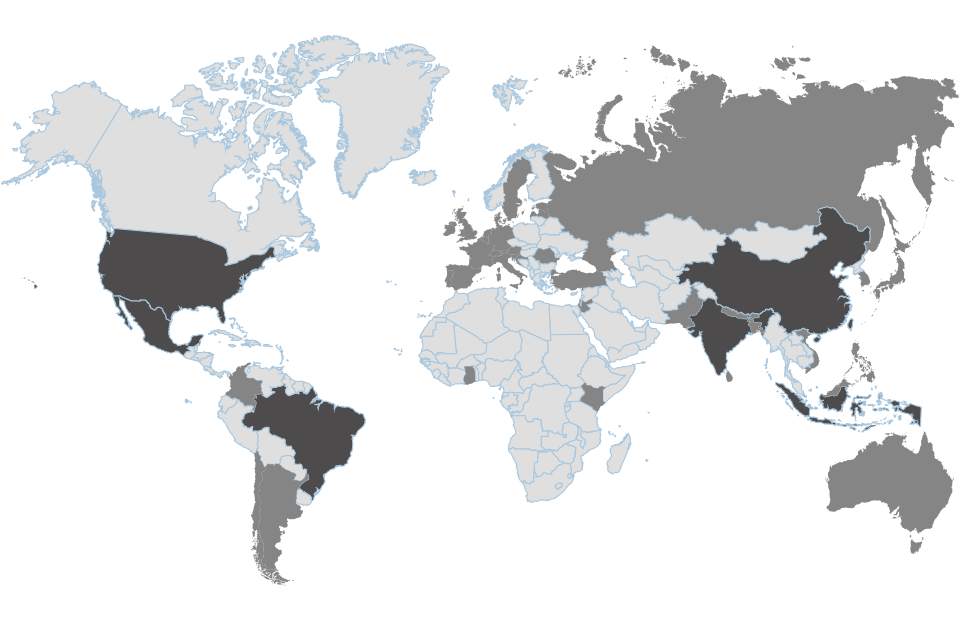
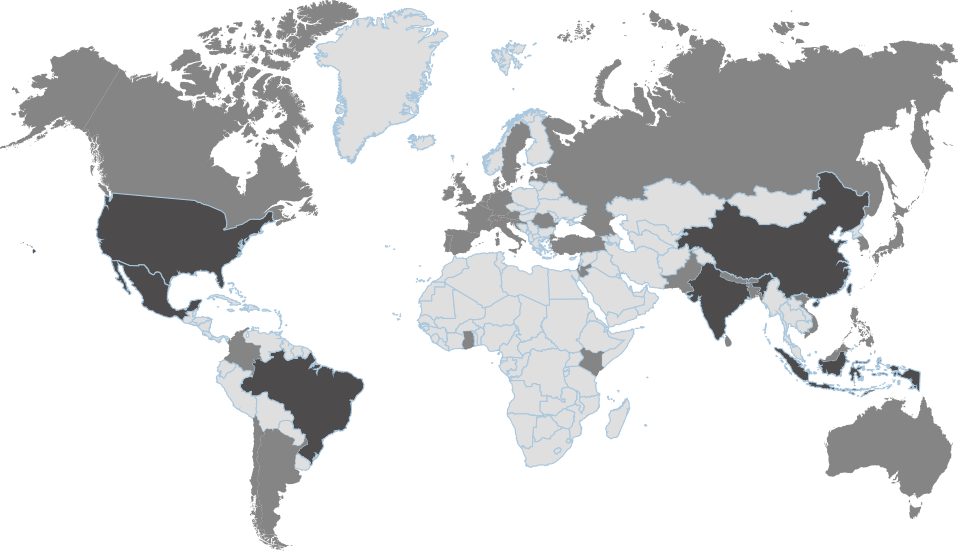
Photos update
New photos for accelerators and added Alaska and Canada to the map in
home.

diff --git a/static/js/bxslider.min.js b/static/js/bxslider.min.js
@@ -7,4 +7,4 @@
  *
  * Released under the MIT license - http://opensource.org/licenses/MIT
  */
-!function(t){var e={},s={mode:"horizontal",slideSelector:"",infiniteLoop:!0,hideControlOnEnd:!1,speed:500,easing:null,slideMargin:0,startSlide:0,randomStart:!1,captions:!1,ticker:!1,tickerHover:!1,adaptiveHeight:!1,adaptiveHeightSpeed:500,video:!1,useCSS:!0,preloadImages:"visible",responsive:!0,touchEnabled:!0,swipeThreshold:50,oneToOneTouch:!0,preventDefaultSwipeX:!0,preventDefaultSwipeY:!1,pager:!0,pagerType:"full",pagerShortSeparator:" / ",pagerSelector:null,buildPager:null,pagerCustom:null,controls:!0,nextText:"Next",prevText:"Prev",nextSelector:null,prevSelector:null,autoControls:!1,startText:"Start",stopText:"Stop",autoControlsCombine:!1,autoControlsSelector:null,auto:!1,pause:4e3,autoStart:!0,autoDirection:"next",autoHover:!1,autoDelay:0,minSlides:1,maxSlides:1,moveSlides:0,slideWidth:0,onSliderLoad:function(){},onSlideBefore:function(){},onSlideAfter:function(){},onSlideNext:function(){},onSlidePrev:function(){}};t.fn.bxSlider=function(n){if(0==this.length)return this;if(this.length>1)return this.each(function(){t(this).bxSlider(n)}),this;var o={},r=this;e.el=this;var a=t(window).width(),l=t(window).height(),d=function(){o.settings=t.extend({},s,n),o.settings.slideWidth=parseInt(o.settings.slideWidth),o.children=r.children(o.settings.slideSelector),o.children.length<o.settings.minSlides&&(o.settings.minSlides=o.children.length),o.children.length<o.settings.maxSlides&&(o.settings.maxSlides=o.children.length),o.settings.randomStart&&(o.settings.startSlide=Math.floor(Math.random()*o.children.length)),o.active={index:o.settings.startSlide},o.carousel=o.settings.minSlides>1||o.settings.maxSlides>1,o.carousel&&(o.settings.preloadImages="all"),o.minThreshold=o.settings.minSlides*o.settings.slideWidth+(o.settings.minSlides-1)*o.settings.slideMargin,o.maxThreshold=o.settings.maxSlides*o.settings.slideWidth+(o.settings.maxSlides-1)*o.settings.slideMargin,o.working=!1,o.controls={},o.interval=null,o.animProp="vertical"==o.settings.mode?"top":"left",o.usingCSS=o.settings.useCSS&&"fade"!=o.settings.mode&&function(){var t=document.createElement("div"),e=["WebkitPerspective","MozPerspective","OPerspective","msPerspective"];for(var i in e)if(void 0!==t.style[e[i]])return o.cssPrefix=e[i].replace("Perspective","").toLowerCase(),o.animProp="-"+o.cssPrefix+"-transform",!0;return!1}(),"vertical"==o.settings.mode&&(o.settings.maxSlides=o.settings.minSlides),r.data("origStyle",r.attr("style")),r.children(o.settings.slideSelector).each(function(){t(this).data("origStyle",t(this).attr("style"))}),c()},c=function(){r.wrap('<div class="bx-wrapper"><div class="bx-viewport"></div></div>'),o.viewport=r.parent(),o.loader=t('<div class="bx-loading" />'),o.viewport.prepend(o.loader),r.css({width:"horizontal"==o.settings.mode?100*o.children.length+215+"%":"auto",position:"relative"}),o.usingCSS&&o.settings.easing?r.css("-"+o.cssPrefix+"-transition-timing-function",o.settings.easing):o.settings.easing||(o.settings.easing="swing"),f(),o.viewport.css({width:"100%",overflow:"hidden",position:"relative"}),o.viewport.parent().css({maxWidth:v()}),o.settings.pager||o.viewport.parent().css({margin:"0 auto 0px"}),o.children.css({"float":"horizontal"==o.settings.mode?"left":"none",listStyle:"none",position:"relative"}),o.children.css("width",u()),"horizontal"==o.settings.mode&&o.settings.slideMargin>0&&o.children.css("marginRight",o.settings.slideMargin),"vertical"==o.settings.mode&&o.settings.slideMargin>0&&o.children.css("marginBottom",o.settings.slideMargin),"fade"==o.settings.mode&&(o.children.css({position:"absolute",zIndex:0,display:"none"}),o.children.eq(o.settings.startSlide).css({zIndex:50,display:"block"})),o.controls.el=t('<div class="bx-controls" />'),o.settings.captions&&P(),o.active.last=o.settings.startSlide==x()-1,o.settings.video&&r.fitVids();var e=o.children.eq(o.settings.startSlide);"all"==o.settings.preloadImages&&(e=o.children),o.settings.ticker?o.settings.pager=!1:(o.settings.pager&&T(),o.settings.controls&&C(),o.settings.auto&&o.settings.autoControls&&E(),(o.settings.controls||o.settings.autoControls||o.settings.pager)&&o.viewport.after(o.controls.el)),g(e,h)},g=function(e,i){var s=e.find("img, iframe").length;if(0==s)return i(),void 0;var n=0;e.find("img, iframe").each(function(){t(this).one("load",function(){++n==s&&i()}).each(function(){this.complete&&t(this).load()})})},h=function(){if(o.settings.infiniteLoop&&"fade"!=o.settings.mode&&!o.settings.ticker){var e="vertical"==o.settings.mode?o.settings.minSlides:o.settings.maxSlides,i=o.children.slice(0,e).clone().addClass("bx-clone"),s=o.children.slice(-e).clone().addClass("bx-clone");r.append(i).prepend(s)}o.loader.remove(),S(),"vertical"==o.settings.mode&&(o.settings.adaptiveHeight=!0),o.viewport.height(p()),r.redrawSlider(),o.settings.onSliderLoad(o.active.index),o.initialized=!0,o.settings.responsive&&t(window).bind("resize",B),o.settings.auto&&o.settings.autoStart&&H(),o.settings.ticker&&L(),o.settings.pager&&I(o.settings.startSlide),o.settings.controls&&W(),o.settings.touchEnabled&&!o.settings.ticker&&O()},p=function(){var e=0,s=t();if("vertical"==o.settings.mode||o.settings.adaptiveHeight)if(o.carousel){var n=1==o.settings.moveSlides?o.active.index:o.active.index*m();for(s=o.children.eq(n),i=1;i<=o.settings.maxSlides-1;i++)s=n+i>=o.children.length?s.add(o.children.eq(i-1)):s.add(o.children.eq(n+i))}else s=o.children.eq(o.active.index);else s=o.children;return"vertical"==o.settings.mode?(s.each(function(){e+=t(this).outerHeight()}),o.settings.slideMargin>0&&(e+=o.settings.slideMargin*(o.settings.minSlides-1))):e=Math.max.apply(Math,s.map(function(){return t(this).outerHeight(!1)}).get()),e},v=function(){var t="100%";return o.settings.slideWidth>0&&(t="horizontal"==o.settings.mode?o.settings.maxSlides*o.settings.slideWidth+(o.settings.maxSlides-1)*o.settings.slideMargin:o.settings.slideWidth),t},u=function(){var t=o.settings.slideWidth,e=o.viewport.width();return 0==o.settings.slideWidth||o.settings.slideWidth>e&&!o.carousel||"vertical"==o.settings.mode?t=e:o.settings.maxSlides>1&&"horizontal"==o.settings.mode&&(e>o.maxThreshold||e<o.minThreshold&&(t=(e-o.settings.slideMargin*(o.settings.minSlides-1))/o.settings.minSlides)),t},f=function(){var t=1;if("horizontal"==o.settings.mode&&o.settings.slideWidth>0)if(o.viewport.width()<o.minThreshold)t=o.settings.minSlides;else if(o.viewport.width()>o.maxThreshold)t=o.settings.maxSlides;else{var e=o.children.first().width();t=Math.floor(o.viewport.width()/e)}else"vertical"==o.settings.mode&&(t=o.settings.minSlides);return t},x=function(){var t=0;if(o.settings.moveSlides>0)if(o.settings.infiniteLoop)t=o.children.length/m();else for(var e=0,i=0;e<o.children.length;)++t,e=i+f(),i+=o.settings.moveSlides<=f()?o.settings.moveSlides:f();else t=Math.ceil(o.children.length/f());return t},m=function(){return o.settings.moveSlides>0&&o.settings.moveSlides<=f()?o.settings.moveSlides:f()},S=function(){if(o.children.length>o.settings.maxSlides&&o.active.last&&!o.settings.infiniteLoop){if("horizontal"==o.settings.mode){var t=o.children.last(),e=t.position();b(-(e.left-(o.viewport.width()-t.width())),"reset",0)}else if("vertical"==o.settings.mode){var i=o.children.length-o.settings.minSlides,e=o.children.eq(i).position();b(-e.top,"reset",0)}}else{var e=o.children.eq(o.active.index*m()).position();o.active.index==x()-1&&(o.active.last=!0),void 0!=e&&("horizontal"==o.settings.mode?b(-e.left,"reset",0):"vertical"==o.settings.mode&&b(-e.top,"reset",0))}},b=function(t,e,i,s){if(o.usingCSS){var n="vertical"==o.settings.mode?"translate3d(0, "+t+"px, 0)":"translate3d("+t+"px, 0, 0)";r.css("-"+o.cssPrefix+"-transition-duration",i/1e3+"s"),"slide"==e?(r.css(o.animProp,n),r.bind("transitionend webkitTransitionEnd oTransitionEnd MSTransitionEnd",function(){r.unbind("transitionend webkitTransitionEnd oTransitionEnd MSTransitionEnd"),D()})):"reset"==e?r.css(o.animProp,n):"ticker"==e&&(r.css("-"+o.cssPrefix+"-transition-timing-function","linear"),r.css(o.animProp,n),r.bind("transitionend webkitTransitionEnd oTransitionEnd MSTransitionEnd",function(){r.unbind("transitionend webkitTransitionEnd oTransitionEnd MSTransitionEnd"),b(s.resetValue,"reset",0),N()}))}else{var a={};a[o.animProp]=t,"slide"==e?r.animate(a,i,o.settings.easing,function(){D()}):"reset"==e?r.css(o.animProp,t):"ticker"==e&&r.animate(a,speed,"linear",function(){b(s.resetValue,"reset",0),N()})}},w=function(){for(var e="",i=x(),s=0;i>s;s++){var n="";o.settings.buildPager&&t.isFunction(o.settings.buildPager)?(n=o.settings.buildPager(s),o.pagerEl.addClass("bx-custom-pager")):(n=s+1,o.pagerEl.addClass("bx-default-pager")),e+='<div class="bx-pager-item"><a href="" data-slide-index="'+s+'" class="bx-pager-link">'+n+"</a></div>"}o.pagerEl.html(e)},T=function(){o.settings.pagerCustom?o.pagerEl=t(o.settings.pagerCustom):(o.pagerEl=t('<div class="bx-pager" />'),o.settings.pagerSelector?t(o.settings.pagerSelector).html(o.pagerEl):o.controls.el.addClass("bx-has-pager").append(o.pagerEl),w()),o.pagerEl.delegate("a","click",q)},C=function(){o.controls.next=t('<a class="bx-next" href="">'+o.settings.nextText+"</a>"),o.controls.prev=t('<a class="bx-prev" href="">'+o.settings.prevText+"</a>"),o.controls.next.bind("click",y),o.controls.prev.bind("click",z),o.settings.nextSelector&&t(o.settings.nextSelector).append(o.controls.next),o.settings.prevSelector&&t(o.settings.prevSelector).append(o.controls.prev),o.settings.nextSelector||o.settings.prevSelector||(o.controls.directionEl=t('<div class="bx-controls-direction" />'),o.controls.directionEl.append(o.controls.prev).append(o.controls.next),o.controls.el.addClass("bx-has-controls-direction").append(o.controls.directionEl))},E=function(){o.controls.start=t('<div class="bx-controls-auto-item"><a class="bx-start" href="">'+o.settings.startText+"</a></div>"),o.controls.stop=t('<div class="bx-controls-auto-item"><a class="bx-stop" href="">'+o.settings.stopText+"</a></div>"),o.controls.autoEl=t('<div class="bx-controls-auto" />'),o.controls.autoEl.delegate(".bx-start","click",k),o.controls.autoEl.delegate(".bx-stop","click",M),o.settings.autoControlsCombine?o.controls.autoEl.append(o.controls.start):o.controls.autoEl.append(o.controls.start).append(o.controls.stop),o.settings.autoControlsSelector?t(o.settings.autoControlsSelector).html(o.controls.autoEl):o.controls.el.addClass("bx-has-controls-auto").append(o.controls.autoEl),A(o.settings.autoStart?"stop":"start")},P=function(){o.children.each(function(){var e=t(this).find("img:first").attr("title");void 0!=e&&(""+e).length&&t(this).append('<div class="bx-caption"><span>'+e+"</span></div>")})},y=function(t){o.settings.auto&&r.stopAuto(),r.goToNextSlide(),t.preventDefault()},z=function(t){o.settings.auto&&r.stopAuto(),r.goToPrevSlide(),t.preventDefault()},k=function(t){r.startAuto(),t.preventDefault()},M=function(t){r.stopAuto(),t.preventDefault()},q=function(e){o.settings.auto&&r.stopAuto();var i=t(e.currentTarget),s=parseInt(i.attr("data-slide-index"));s!=o.active.index&&r.goToSlide(s),e.preventDefault()},I=function(e){var i=o.children.length;return"short"==o.settings.pagerType?(o.settings.maxSlides>1&&(i=Math.ceil(o.children.length/o.settings.maxSlides)),o.pagerEl.html(e+1+o.settings.pagerShortSeparator+i),void 0):(o.pagerEl.find("a").removeClass("active"),o.pagerEl.each(function(i,s){t(s).find("a").eq(e).addClass("active")}),void 0)},D=function(){if(o.settings.infiniteLoop){var t="";0==o.active.index?t=o.children.eq(0).position():o.active.index==x()-1&&o.carousel?t=o.children.eq((x()-1)*m()).position():o.active.index==o.children.length-1&&(t=o.children.eq(o.children.length-1).position()),"horizontal"==o.settings.mode?b(-t.left,"reset",0):"vertical"==o.settings.mode&&b(-t.top,"reset",0)}o.working=!1,o.settings.onSlideAfter(o.children.eq(o.active.index),o.oldIndex,o.active.index)},A=function(t){o.settings.autoControlsCombine?o.controls.autoEl.html(o.controls[t]):(o.controls.autoEl.find("a").removeClass("active"),o.controls.autoEl.find("a:not(.bx-"+t+")").addClass("active"))},W=function(){1==x()?(o.controls.prev.addClass("disabled"),o.controls.next.addClass("disabled")):!o.settings.infiniteLoop&&o.settings.hideControlOnEnd&&(0==o.active.index?(o.controls.prev.addClass("disabled"),o.controls.next.removeClass("disabled")):o.active.index==x()-1?(o.controls.next.addClass("disabled"),o.controls.prev.removeClass("disabled")):(o.controls.prev.removeClass("disabled"),o.controls.next.removeClass("disabled")))},H=function(){o.settings.autoDelay>0?setTimeout(r.startAuto,o.settings.autoDelay):r.startAuto(),o.settings.autoHover&&r.hover(function(){o.interval&&(r.stopAuto(!0),o.autoPaused=!0)},function(){o.autoPaused&&(r.startAuto(!0),o.autoPaused=null)})},L=function(){var e=0;if("next"==o.settings.autoDirection)r.append(o.children.clone().addClass("bx-clone"));else{r.prepend(o.children.clone().addClass("bx-clone"));var i=o.children.first().position();e="horizontal"==o.settings.mode?-i.left:-i.top}b(e,"reset",0),o.settings.pager=!1,o.settings.controls=!1,o.settings.autoControls=!1,o.settings.tickerHover&&!o.usingCSS&&o.viewport.hover(function(){r.stop()},function(){var e=0;o.children.each(function(){e+="horizontal"==o.settings.mode?t(this).outerWidth(!0):t(this).outerHeight(!0)});var i=o.settings.speed/e,s="horizontal"==o.settings.mode?"left":"top",n=i*(e-Math.abs(parseInt(r.css(s))));N(n)}),N()},N=function(t){speed=t?t:o.settings.speed;var e={left:0,top:0},i={left:0,top:0};"next"==o.settings.autoDirection?e=r.find(".bx-clone").first().position():i=o.children.first().position();var s="horizontal"==o.settings.mode?-e.left:-e.top,n="horizontal"==o.settings.mode?-i.left:-i.top,a={resetValue:n};b(s,"ticker",speed,a)},O=function(){o.touch={start:{x:0,y:0},end:{x:0,y:0}},o.viewport.bind("touchstart",X)},X=function(t){if(o.working)t.preventDefault();else{o.touch.originalPos=r.position();var e=t.originalEvent;o.touch.start.x=e.changedTouches[0].pageX,o.touch.start.y=e.changedTouches[0].pageY,o.viewport.bind("touchmove",Y),o.viewport.bind("touchend",V)}},Y=function(t){var e=t.originalEvent,i=Math.abs(e.changedTouches[0].pageX-o.touch.start.x),s=Math.abs(e.changedTouches[0].pageY-o.touch.start.y);if(3*i>s&&o.settings.preventDefaultSwipeX?t.preventDefault():3*s>i&&o.settings.preventDefaultSwipeY&&t.preventDefault(),"fade"!=o.settings.mode&&o.settings.oneToOneTouch){var n=0;if("horizontal"==o.settings.mode){var r=e.changedTouches[0].pageX-o.touch.start.x;n=o.touch.originalPos.left+r}else{var r=e.changedTouches[0].pageY-o.touch.start.y;n=o.touch.originalPos.top+r}b(n,"reset",0)}},V=function(t){o.viewport.unbind("touchmove",Y);var e=t.originalEvent,i=0;if(o.touch.end.x=e.changedTouches[0].pageX,o.touch.end.y=e.changedTouches[0].pageY,"fade"==o.settings.mode){var s=Math.abs(o.touch.start.x-o.touch.end.x);s>=o.settings.swipeThreshold&&(o.touch.start.x>o.touch.end.x?r.goToNextSlide():r.goToPrevSlide(),r.stopAuto())}else{var s=0;"horizontal"==o.settings.mode?(s=o.touch.end.x-o.touch.start.x,i=o.touch.originalPos.left):(s=o.touch.end.y-o.touch.start.y,i=o.touch.originalPos.top),!o.settings.infiniteLoop&&(0==o.active.index&&s>0||o.active.last&&0>s)?b(i,"reset",200):Math.abs(s)>=o.settings.swipeThreshold?(0>s?r.goToNextSlide():r.goToPrevSlide(),r.stopAuto()):b(i,"reset",200)}o.viewport.unbind("touchend",V)},B=function(){var e=t(window).width(),i=t(window).height();(a!=e||l!=i)&&(a=e,l=i,r.redrawSlider())};return r.goToSlide=function(e,i){if(!o.working&&o.active.index!=e)if(o.working=!0,o.oldIndex=o.active.index,o.active.index=0>e?x()-1:e>=x()?0:e,o.settings.onSlideBefore(o.children.eq(o.active.index),o.oldIndex,o.active.index),"next"==i?o.settings.onSlideNext(o.children.eq(o.active.index),o.oldIndex,o.active.index):"prev"==i&&o.settings.onSlidePrev(o.children.eq(o.active.index),o.oldIndex,o.active.index),o.active.last=o.active.index>=x()-1,o.settings.pager&&I(o.active.index),o.settings.controls&&W(),"fade"==o.settings.mode)o.settings.adaptiveHeight&&o.viewport.height()!=p()&&o.viewport.animate({height:p()},o.settings.adaptiveHeightSpeed),o.children.filter(":visible").fadeOut(o.settings.speed).css({zIndex:0}),o.children.eq(o.active.index).css("zIndex",51).fadeIn(o.settings.speed,function(){t(this).css("zIndex",50),D()});else{o.settings.adaptiveHeight&&o.viewport.height()!=p()&&o.viewport.animate({height:p()},o.settings.adaptiveHeightSpeed);var s=0,n={left:0,top:0};if(!o.settings.infiniteLoop&&o.carousel&&o.active.last)if("horizontal"==o.settings.mode){var a=o.children.eq(o.children.length-1);n=a.position(),s=o.viewport.width()-a.outerWidth()}else{var l=o.children.length-o.settings.minSlides;n=o.children.eq(l).position()}else if(o.carousel&&o.active.last&&"prev"==i){var d=1==o.settings.moveSlides?o.settings.maxSlides-m():(x()-1)*m()-(o.children.length-o.settings.maxSlides),a=r.children(".bx-clone").eq(d);n=a.position()}else if("next"==i&&0==o.active.index)n=r.find("> .bx-clone").eq(o.settings.maxSlides).position(),o.active.last=!1;else if(e>=0){var c=e*m();n=o.children.eq(c).position()}if("undefined"!=typeof n){var g="horizontal"==o.settings.mode?-(n.left-s):-n.top;b(g,"slide",o.settings.speed)}}},r.goToNextSlide=function(){if(o.settings.infiniteLoop||!o.active.last){var t=parseInt(o.active.index)+1;r.goToSlide(t,"next")}},r.goToPrevSlide=function(){if(o.settings.infiniteLoop||0!=o.active.index){var t=parseInt(o.active.index)-1;r.goToSlide(t,"prev")}},r.startAuto=function(t){o.interval||(o.interval=setInterval(function(){"next"==o.settings.autoDirection?r.goToNextSlide():r.goToPrevSlide()},o.settings.pause),o.settings.autoControls&&1!=t&&A("stop"))},r.stopAuto=function(t){o.interval&&(clearInterval(o.interval),o.interval=null,o.settings.autoControls&&1!=t&&A("start"))},r.getCurrentSlide=function(){return o.active.index},r.getSlideCount=function(){return o.children.length},r.redrawSlider=function(){o.children.add(r.find(".bx-clone")).outerWidth(u()),o.viewport.css("height",p()),o.settings.ticker||S(),o.active.last&&(o.active.index=x()-1),o.active.index>=x()&&(o.active.last=!0),o.settings.pager&&!o.settings.pagerCustom&&(w(),I(o.active.index))},r.destroySlider=function(){o.initialized&&(o.initialized=!1,t(".bx-clone",this).remove(),o.children.each(function(){void 0!=t(this).data("origStyle")?t(this).attr("style",t(this).data("origStyle")):t(this).removeAttr("style")}),void 0!=t(this).data("origStyle")?this.attr("style",t(this).data("origStyle")):t(this).removeAttr("style"),t(this).unwrap().unwrap(),o.controls.el&&o.controls.el.remove(),o.controls.next&&o.controls.next.remove(),o.controls.prev&&o.controls.prev.remove(),o.pagerEl&&o.pagerEl.remove(),t(".bx-caption",this).remove(),o.controls.autoEl&&o.controls.autoEl.remove(),clearInterval(o.interval),o.settings.responsive&&t(window).unbind("resize",B))},r.reloadSlider=function(t){void 0!=t&&(n=t),r.destroySlider(),d()},d(),this}}(jQuery);
+!function(t){var e={},s={mode:"horizontal",slideSelector:"",infiniteLoop:!0,hideControlOnEnd:!1,speed:200,easing:null,slideMargin:0,startSlide:0,randomStart:!1,captions:!1,ticker:!1,tickerHover:!1,adaptiveHeight:!1,adaptiveHeightSpeed:500,video:!1,useCSS:!0,preloadImages:"visible",responsive:!0,touchEnabled:!0,swipeThreshold:50,oneToOneTouch:!0,preventDefaultSwipeX:!0,preventDefaultSwipeY:!1,pager:!0,pagerType:"full",pagerShortSeparator:" / ",pagerSelector:null,buildPager:null,pagerCustom:null,controls:!0,nextText:"Next",prevText:"Prev",nextSelector:null,prevSelector:null,autoControls:!1,startText:"Start",stopText:"Stop",autoControlsCombine:!1,autoControlsSelector:null,auto:!1,pause:4e3,autoStart:!0,autoDirection:"next",autoHover:!1,autoDelay:0,minSlides:1,maxSlides:1,moveSlides:0,slideWidth:0,onSliderLoad:function(){},onSlideBefore:function(){},onSlideAfter:function(){},onSlideNext:function(){},onSlidePrev:function(){}};t.fn.bxSlider=function(n){if(0==this.length)return this;if(this.length>1)return this.each(function(){t(this).bxSlider(n)}),this;var o={},r=this;e.el=this;var a=t(window).width(),l=t(window).height(),d=function(){o.settings=t.extend({},s,n),o.settings.slideWidth=parseInt(o.settings.slideWidth),o.children=r.children(o.settings.slideSelector),o.children.length<o.settings.minSlides&&(o.settings.minSlides=o.children.length),o.children.length<o.settings.maxSlides&&(o.settings.maxSlides=o.children.length),o.settings.randomStart&&(o.settings.startSlide=Math.floor(Math.random()*o.children.length)),o.active={index:o.settings.startSlide},o.carousel=o.settings.minSlides>1||o.settings.maxSlides>1,o.carousel&&(o.settings.preloadImages="all"),o.minThreshold=o.settings.minSlides*o.settings.slideWidth+(o.settings.minSlides-1)*o.settings.slideMargin,o.maxThreshold=o.settings.maxSlides*o.settings.slideWidth+(o.settings.maxSlides-1)*o.settings.slideMargin,o.working=!1,o.controls={},o.interval=null,o.animProp="vertical"==o.settings.mode?"top":"left",o.usingCSS=o.settings.useCSS&&"fade"!=o.settings.mode&&function(){var t=document.createElement("div"),e=["WebkitPerspective","MozPerspective","OPerspective","msPerspective"];for(var i in e)if(void 0!==t.style[e[i]])return o.cssPrefix=e[i].replace("Perspective","").toLowerCase(),o.animProp="-"+o.cssPrefix+"-transform",!0;return!1}(),"vertical"==o.settings.mode&&(o.settings.maxSlides=o.settings.minSlides),r.data("origStyle",r.attr("style")),r.children(o.settings.slideSelector).each(function(){t(this).data("origStyle",t(this).attr("style"))}),c()},c=function(){r.wrap('<div class="bx-wrapper"><div class="bx-viewport"></div></div>'),o.viewport=r.parent(),o.loader=t('<div class="bx-loading" />'),o.viewport.prepend(o.loader),r.css({width:"horizontal"==o.settings.mode?100*o.children.length+215+"%":"auto",position:"relative"}),o.usingCSS&&o.settings.easing?r.css("-"+o.cssPrefix+"-transition-timing-function",o.settings.easing):o.settings.easing||(o.settings.easing="swing"),f(),o.viewport.css({width:"100%",overflow:"hidden",position:"relative"}),o.viewport.parent().css({maxWidth:v()}),o.settings.pager||o.viewport.parent().css({margin:"0 auto 0px"}),o.children.css({"float":"horizontal"==o.settings.mode?"left":"none",listStyle:"none",position:"relative"}),o.children.css("width",u()),"horizontal"==o.settings.mode&&o.settings.slideMargin>0&&o.children.css("marginRight",o.settings.slideMargin),"vertical"==o.settings.mode&&o.settings.slideMargin>0&&o.children.css("marginBottom",o.settings.slideMargin),"fade"==o.settings.mode&&(o.children.css({position:"absolute",zIndex:0,display:"none"}),o.children.eq(o.settings.startSlide).css({zIndex:50,display:"block"})),o.controls.el=t('<div class="bx-controls" />'),o.settings.captions&&P(),o.active.last=o.settings.startSlide==x()-1,o.settings.video&&r.fitVids();var e=o.children.eq(o.settings.startSlide);"all"==o.settings.preloadImages&&(e=o.children),o.settings.ticker?o.settings.pager=!1:(o.settings.pager&&T(),o.settings.controls&&C(),o.settings.auto&&o.settings.autoControls&&E(),(o.settings.controls||o.settings.autoControls||o.settings.pager)&&o.viewport.after(o.controls.el)),g(e,h)},g=function(e,i){var s=e.find("img, iframe").length;if(0==s)return i(),void 0;var n=0;e.find("img, iframe").each(function(){t(this).one("load",function(){++n==s&&i()}).each(function(){this.complete&&t(this).load()})})},h=function(){if(o.settings.infiniteLoop&&"fade"!=o.settings.mode&&!o.settings.ticker){var e="vertical"==o.settings.mode?o.settings.minSlides:o.settings.maxSlides,i=o.children.slice(0,e).clone().addClass("bx-clone"),s=o.children.slice(-e).clone().addClass("bx-clone");r.append(i).prepend(s)}o.loader.remove(),S(),"vertical"==o.settings.mode&&(o.settings.adaptiveHeight=!0),o.viewport.height(p()),r.redrawSlider(),o.settings.onSliderLoad(o.active.index),o.initialized=!0,o.settings.responsive&&t(window).bind("resize",B),o.settings.auto&&o.settings.autoStart&&H(),o.settings.ticker&&L(),o.settings.pager&&I(o.settings.startSlide),o.settings.controls&&W(),o.settings.touchEnabled&&!o.settings.ticker&&O()},p=function(){var e=0,s=t();if("vertical"==o.settings.mode||o.settings.adaptiveHeight)if(o.carousel){var n=1==o.settings.moveSlides?o.active.index:o.active.index*m();for(s=o.children.eq(n),i=1;i<=o.settings.maxSlides-1;i++)s=n+i>=o.children.length?s.add(o.children.eq(i-1)):s.add(o.children.eq(n+i))}else s=o.children.eq(o.active.index);else s=o.children;return"vertical"==o.settings.mode?(s.each(function(){e+=t(this).outerHeight()}),o.settings.slideMargin>0&&(e+=o.settings.slideMargin*(o.settings.minSlides-1))):e=Math.max.apply(Math,s.map(function(){return t(this).outerHeight(!1)}).get()),e},v=function(){var t="100%";return o.settings.slideWidth>0&&(t="horizontal"==o.settings.mode?o.settings.maxSlides*o.settings.slideWidth+(o.settings.maxSlides-1)*o.settings.slideMargin:o.settings.slideWidth),t},u=function(){var t=o.settings.slideWidth,e=o.viewport.width();return 0==o.settings.slideWidth||o.settings.slideWidth>e&&!o.carousel||"vertical"==o.settings.mode?t=e:o.settings.maxSlides>1&&"horizontal"==o.settings.mode&&(e>o.maxThreshold||e<o.minThreshold&&(t=(e-o.settings.slideMargin*(o.settings.minSlides-1))/o.settings.minSlides)),t},f=function(){var t=1;if("horizontal"==o.settings.mode&&o.settings.slideWidth>0)if(o.viewport.width()<o.minThreshold)t=o.settings.minSlides;else if(o.viewport.width()>o.maxThreshold)t=o.settings.maxSlides;else{var e=o.children.first().width();t=Math.floor(o.viewport.width()/e)}else"vertical"==o.settings.mode&&(t=o.settings.minSlides);return t},x=function(){var t=0;if(o.settings.moveSlides>0)if(o.settings.infiniteLoop)t=o.children.length/m();else for(var e=0,i=0;e<o.children.length;)++t,e=i+f(),i+=o.settings.moveSlides<=f()?o.settings.moveSlides:f();else t=Math.ceil(o.children.length/f());return t},m=function(){return o.settings.moveSlides>0&&o.settings.moveSlides<=f()?o.settings.moveSlides:f()},S=function(){if(o.children.length>o.settings.maxSlides&&o.active.last&&!o.settings.infiniteLoop){if("horizontal"==o.settings.mode){var t=o.children.last(),e=t.position();b(-(e.left-(o.viewport.width()-t.width())),"reset",0)}else if("vertical"==o.settings.mode){var i=o.children.length-o.settings.minSlides,e=o.children.eq(i).position();b(-e.top,"reset",0)}}else{var e=o.children.eq(o.active.index*m()).position();o.active.index==x()-1&&(o.active.last=!0),void 0!=e&&("horizontal"==o.settings.mode?b(-e.left,"reset",0):"vertical"==o.settings.mode&&b(-e.top,"reset",0))}},b=function(t,e,i,s){if(o.usingCSS){var n="vertical"==o.settings.mode?"translate3d(0, "+t+"px, 0)":"translate3d("+t+"px, 0, 0)";r.css("-"+o.cssPrefix+"-transition-duration",i/1e3+"s"),"slide"==e?(r.css(o.animProp,n),r.bind("transitionend webkitTransitionEnd oTransitionEnd MSTransitionEnd",function(){r.unbind("transitionend webkitTransitionEnd oTransitionEnd MSTransitionEnd"),D()})):"reset"==e?r.css(o.animProp,n):"ticker"==e&&(r.css("-"+o.cssPrefix+"-transition-timing-function","linear"),r.css(o.animProp,n),r.bind("transitionend webkitTransitionEnd oTransitionEnd MSTransitionEnd",function(){r.unbind("transitionend webkitTransitionEnd oTransitionEnd MSTransitionEnd"),b(s.resetValue,"reset",0),N()}))}else{var a={};a[o.animProp]=t,"slide"==e?r.animate(a,i,o.settings.easing,function(){D()}):"reset"==e?r.css(o.animProp,t):"ticker"==e&&r.animate(a,speed,"linear",function(){b(s.resetValue,"reset",0),N()})}},w=function(){for(var e="",i=x(),s=0;i>s;s++){var n="";o.settings.buildPager&&t.isFunction(o.settings.buildPager)?(n=o.settings.buildPager(s),o.pagerEl.addClass("bx-custom-pager")):(n=s+1,o.pagerEl.addClass("bx-default-pager")),e+='<div class="bx-pager-item"><a href="" data-slide-index="'+s+'" class="bx-pager-link">'+n+"</a></div>"}o.pagerEl.html(e)},T=function(){o.settings.pagerCustom?o.pagerEl=t(o.settings.pagerCustom):(o.pagerEl=t('<div class="bx-pager" />'),o.settings.pagerSelector?t(o.settings.pagerSelector).html(o.pagerEl):o.controls.el.addClass("bx-has-pager").append(o.pagerEl),w()),o.pagerEl.delegate("a","click",q)},C=function(){o.controls.next=t('<a class="bx-next" href="">'+o.settings.nextText+"</a>"),o.controls.prev=t('<a class="bx-prev" href="">'+o.settings.prevText+"</a>"),o.controls.next.bind("click",y),o.controls.prev.bind("click",z),o.settings.nextSelector&&t(o.settings.nextSelector).append(o.controls.next),o.settings.prevSelector&&t(o.settings.prevSelector).append(o.controls.prev),o.settings.nextSelector||o.settings.prevSelector||(o.controls.directionEl=t('<div class="bx-controls-direction" />'),o.controls.directionEl.append(o.controls.prev).append(o.controls.next),o.controls.el.addClass("bx-has-controls-direction").append(o.controls.directionEl))},E=function(){o.controls.start=t('<div class="bx-controls-auto-item"><a class="bx-start" href="">'+o.settings.startText+"</a></div>"),o.controls.stop=t('<div class="bx-controls-auto-item"><a class="bx-stop" href="">'+o.settings.stopText+"</a></div>"),o.controls.autoEl=t('<div class="bx-controls-auto" />'),o.controls.autoEl.delegate(".bx-start","click",k),o.controls.autoEl.delegate(".bx-stop","click",M),o.settings.autoControlsCombine?o.controls.autoEl.append(o.controls.start):o.controls.autoEl.append(o.controls.start).append(o.controls.stop),o.settings.autoControlsSelector?t(o.settings.autoControlsSelector).html(o.controls.autoEl):o.controls.el.addClass("bx-has-controls-auto").append(o.controls.autoEl),A(o.settings.autoStart?"stop":"start")},P=function(){o.children.each(function(){var e=t(this).find("img:first").attr("title");void 0!=e&&(""+e).length&&t(this).append('<div class="bx-caption"><span>'+e+"</span></div>")})},y=function(t){o.settings.auto&&r.stopAuto(),r.goToNextSlide(),t.preventDefault()},z=function(t){o.settings.auto&&r.stopAuto(),r.goToPrevSlide(),t.preventDefault()},k=function(t){r.startAuto(),t.preventDefault()},M=function(t){r.stopAuto(),t.preventDefault()},q=function(e){o.settings.auto&&r.stopAuto();var i=t(e.currentTarget),s=parseInt(i.attr("data-slide-index"));s!=o.active.index&&r.goToSlide(s),e.preventDefault()},I=function(e){var i=o.children.length;return"short"==o.settings.pagerType?(o.settings.maxSlides>1&&(i=Math.ceil(o.children.length/o.settings.maxSlides)),o.pagerEl.html(e+1+o.settings.pagerShortSeparator+i),void 0):(o.pagerEl.find("a").removeClass("active"),o.pagerEl.each(function(i,s){t(s).find("a").eq(e).addClass("active")}),void 0)},D=function(){if(o.settings.infiniteLoop){var t="";0==o.active.index?t=o.children.eq(0).position():o.active.index==x()-1&&o.carousel?t=o.children.eq((x()-1)*m()).position():o.active.index==o.children.length-1&&(t=o.children.eq(o.children.length-1).position()),"horizontal"==o.settings.mode?b(-t.left,"reset",0):"vertical"==o.settings.mode&&b(-t.top,"reset",0)}o.working=!1,o.settings.onSlideAfter(o.children.eq(o.active.index),o.oldIndex,o.active.index)},A=function(t){o.settings.autoControlsCombine?o.controls.autoEl.html(o.controls[t]):(o.controls.autoEl.find("a").removeClass("active"),o.controls.autoEl.find("a:not(.bx-"+t+")").addClass("active"))},W=function(){1==x()?(o.controls.prev.addClass("disabled"),o.controls.next.addClass("disabled")):!o.settings.infiniteLoop&&o.settings.hideControlOnEnd&&(0==o.active.index?(o.controls.prev.addClass("disabled"),o.controls.next.removeClass("disabled")):o.active.index==x()-1?(o.controls.next.addClass("disabled"),o.controls.prev.removeClass("disabled")):(o.controls.prev.removeClass("disabled"),o.controls.next.removeClass("disabled")))},H=function(){o.settings.autoDelay>0?setTimeout(r.startAuto,o.settings.autoDelay):r.startAuto(),o.settings.autoHover&&r.hover(function(){o.interval&&(r.stopAuto(!0),o.autoPaused=!0)},function(){o.autoPaused&&(r.startAuto(!0),o.autoPaused=null)})},L=function(){var e=0;if("next"==o.settings.autoDirection)r.append(o.children.clone().addClass("bx-clone"));else{r.prepend(o.children.clone().addClass("bx-clone"));var i=o.children.first().position();e="horizontal"==o.settings.mode?-i.left:-i.top}b(e,"reset",0),o.settings.pager=!1,o.settings.controls=!1,o.settings.autoControls=!1,o.settings.tickerHover&&!o.usingCSS&&o.viewport.hover(function(){r.stop()},function(){var e=0;o.children.each(function(){e+="horizontal"==o.settings.mode?t(this).outerWidth(!0):t(this).outerHeight(!0)});var i=o.settings.speed/e,s="horizontal"==o.settings.mode?"left":"top",n=i*(e-Math.abs(parseInt(r.css(s))));N(n)}),N()},N=function(t){speed=t?t:o.settings.speed;var e={left:0,top:0},i={left:0,top:0};"next"==o.settings.autoDirection?e=r.find(".bx-clone").first().position():i=o.children.first().position();var s="horizontal"==o.settings.mode?-e.left:-e.top,n="horizontal"==o.settings.mode?-i.left:-i.top,a={resetValue:n};b(s,"ticker",speed,a)},O=function(){o.touch={start:{x:0,y:0},end:{x:0,y:0}},o.viewport.bind("touchstart",X)},X=function(t){if(o.working)t.preventDefault();else{o.touch.originalPos=r.position();var e=t.originalEvent;o.touch.start.x=e.changedTouches[0].pageX,o.touch.start.y=e.changedTouches[0].pageY,o.viewport.bind("touchmove",Y),o.viewport.bind("touchend",V)}},Y=function(t){var e=t.originalEvent,i=Math.abs(e.changedTouches[0].pageX-o.touch.start.x),s=Math.abs(e.changedTouches[0].pageY-o.touch.start.y);if(3*i>s&&o.settings.preventDefaultSwipeX?t.preventDefault():3*s>i&&o.settings.preventDefaultSwipeY&&t.preventDefault(),"fade"!=o.settings.mode&&o.settings.oneToOneTouch){var n=0;if("horizontal"==o.settings.mode){var r=e.changedTouches[0].pageX-o.touch.start.x;n=o.touch.originalPos.left+r}else{var r=e.changedTouches[0].pageY-o.touch.start.y;n=o.touch.originalPos.top+r}b(n,"reset",0)}},V=function(t){o.viewport.unbind("touchmove",Y);var e=t.originalEvent,i=0;if(o.touch.end.x=e.changedTouches[0].pageX,o.touch.end.y=e.changedTouches[0].pageY,"fade"==o.settings.mode){var s=Math.abs(o.touch.start.x-o.touch.end.x);s>=o.settings.swipeThreshold&&(o.touch.start.x>o.touch.end.x?r.goToNextSlide():r.goToPrevSlide(),r.stopAuto())}else{var s=0;"horizontal"==o.settings.mode?(s=o.touch.end.x-o.touch.start.x,i=o.touch.originalPos.left):(s=o.touch.end.y-o.touch.start.y,i=o.touch.originalPos.top),!o.settings.infiniteLoop&&(0==o.active.index&&s>0||o.active.last&&0>s)?b(i,"reset",200):Math.abs(s)>=o.settings.swipeThreshold?(0>s?r.goToNextSlide():r.goToPrevSlide(),r.stopAuto()):b(i,"reset",200)}o.viewport.unbind("touchend",V)},B=function(){var e=t(window).width(),i=t(window).height();(a!=e||l!=i)&&(a=e,l=i,r.redrawSlider())};return r.goToSlide=function(e,i){if(!o.working&&o.active.index!=e)if(o.working=!0,o.oldIndex=o.active.index,o.active.index=0>e?x()-1:e>=x()?0:e,o.settings.onSlideBefore(o.children.eq(o.active.index),o.oldIndex,o.active.index),"next"==i?o.settings.onSlideNext(o.children.eq(o.active.index),o.oldIndex,o.active.index):"prev"==i&&o.settings.onSlidePrev(o.children.eq(o.active.index),o.oldIndex,o.active.index),o.active.last=o.active.index>=x()-1,o.settings.pager&&I(o.active.index),o.settings.controls&&W(),"fade"==o.settings.mode)o.settings.adaptiveHeight&&o.viewport.height()!=p()&&o.viewport.animate({height:p()},o.settings.adaptiveHeightSpeed),o.children.filter(":visible").fadeOut(o.settings.speed).css({zIndex:0}),o.children.eq(o.active.index).css("zIndex",51).fadeIn(o.settings.speed,function(){t(this).css("zIndex",50),D()});else{o.settings.adaptiveHeight&&o.viewport.height()!=p()&&o.viewport.animate({height:p()},o.settings.adaptiveHeightSpeed);var s=0,n={left:0,top:0};if(!o.settings.infiniteLoop&&o.carousel&&o.active.last)if("horizontal"==o.settings.mode){var a=o.children.eq(o.children.length-1);n=a.position(),s=o.viewport.width()-a.outerWidth()}else{var l=o.children.length-o.settings.minSlides;n=o.children.eq(l).position()}else if(o.carousel&&o.active.last&&"prev"==i){var d=1==o.settings.moveSlides?o.settings.maxSlides-m():(x()-1)*m()-(o.children.length-o.settings.maxSlides),a=r.children(".bx-clone").eq(d);n=a.position()}else if("next"==i&&0==o.active.index)n=r.find("> .bx-clone").eq(o.settings.maxSlides).position(),o.active.last=!1;else if(e>=0){var c=e*m();n=o.children.eq(c).position()}if("undefined"!=typeof n){var g="horizontal"==o.settings.mode?-(n.left-s):-n.top;b(g,"slide",o.settings.speed)}}},r.goToNextSlide=function(){if(o.settings.infiniteLoop||!o.active.last){var t=parseInt(o.active.index)+1;r.goToSlide(t,"next")}},r.goToPrevSlide=function(){if(o.settings.infiniteLoop||0!=o.active.index){var t=parseInt(o.active.index)-1;r.goToSlide(t,"prev")}},r.startAuto=function(t){o.interval||(o.interval=setInterval(function(){"next"==o.settings.autoDirection?r.goToNextSlide():r.goToPrevSlide()},o.settings.pause),o.settings.autoControls&&1!=t&&A("stop"))},r.stopAuto=function(t){o.interval&&(clearInterval(o.interval),o.interval=null,o.settings.autoControls&&1!=t&&A("start"))},r.getCurrentSlide=function(){return o.active.index},r.getSlideCount=function(){return o.children.length},r.redrawSlider=function(){o.children.add(r.find(".bx-clone")).outerWidth(u()),o.viewport.css("height",p()),o.settings.ticker||S(),o.active.last&&(o.active.index=x()-1),o.active.index>=x()&&(o.active.last=!0),o.settings.pager&&!o.settings.pagerCustom&&(w(),I(o.active.index))},r.destroySlider=function(){o.initialized&&(o.initialized=!1,t(".bx-clone",this).remove(),o.children.each(function(){void 0!=t(this).data("origStyle")?t(this).attr("style",t(this).data("origStyle")):t(this).removeAttr("style")}),void 0!=t(this).data("origStyle")?this.attr("style",t(this).data("origStyle")):t(this).removeAttr("style"),t(this).unwrap().unwrap(),o.controls.el&&o.controls.el.remove(),o.controls.next&&o.controls.next.remove(),o.controls.prev&&o.controls.prev.remove(),o.pagerEl&&o.pagerEl.remove(),t(".bx-caption",this).remove(),o.controls.autoEl&&o.controls.autoEl.remove(),clearInterval(o.interval),o.settings.responsive&&t(window).unbind("resize",B))},r.reloadSlider=function(t){void 0!=t&&(n=t),r.destroySlider(),d()},d(),this}}(jQuery);
